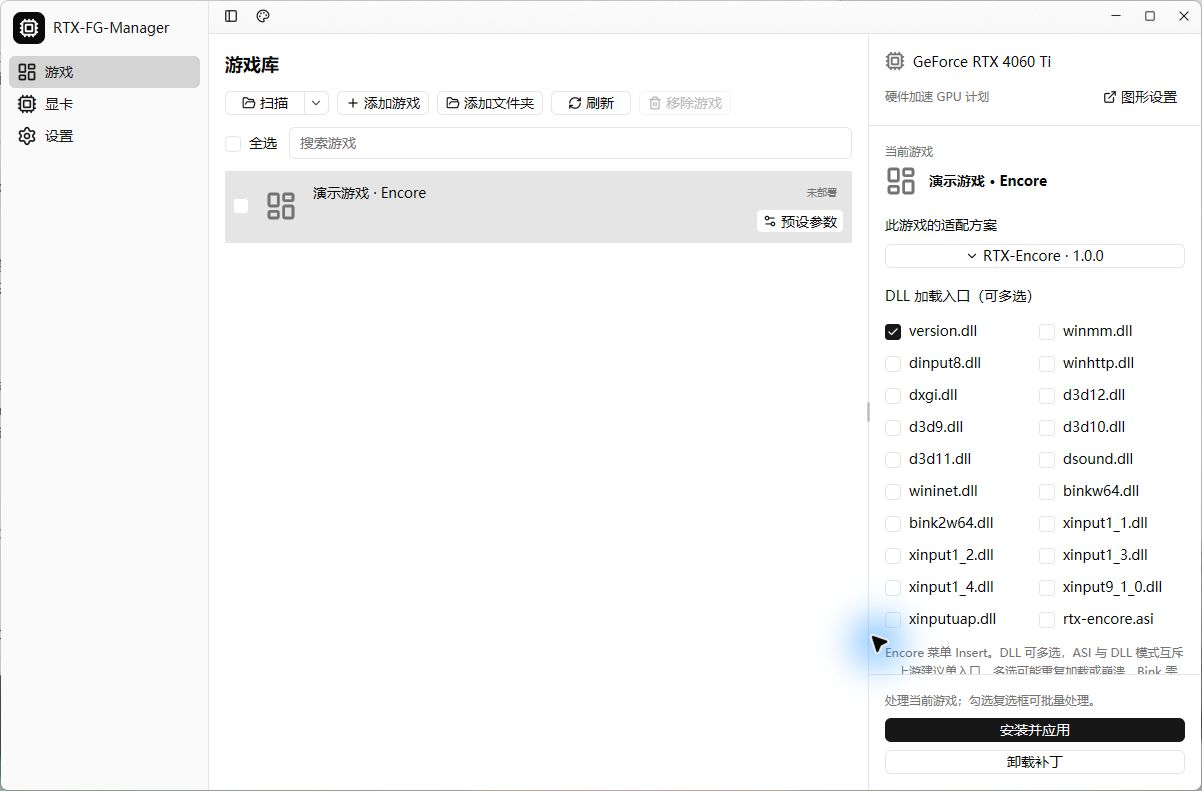
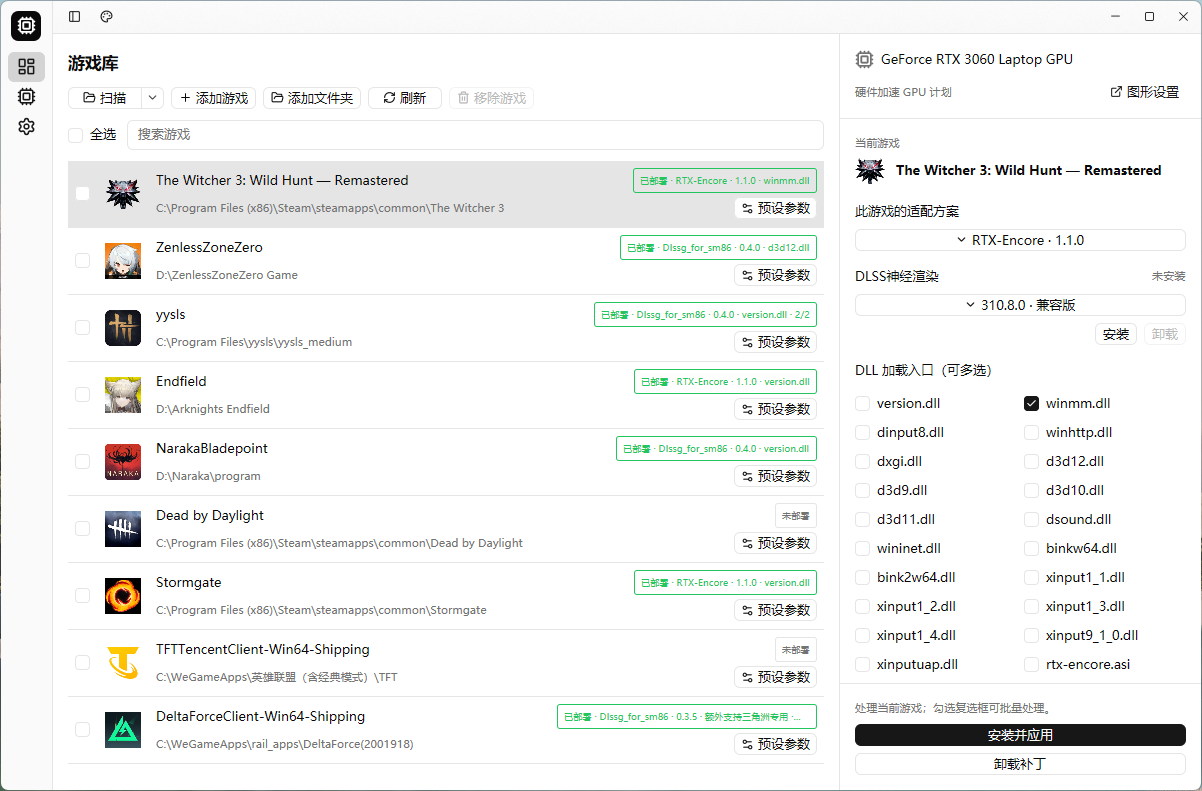
Release 4.3.2: Encore stable, refined workspace and bilingual GPU guidance

diff --git a/tools/gitcode_publish.py b/tools/gitcode_publish.py
@@ -220,6 +220,25 @@ def mirror_assets(folder, repo, tag, allow_exe=False):
         upload(repo, tag, path, allow_exe)
 
 
+def complete_pending_bundle_index(root, review, entries, final):
+    """Validate a split metadata commit against its unchanged, completed tip.
+
+    Only supply a missing immutable index, never replace an existing blob.
+    The normal metadata verifier still checks bytes, digest and remote receipts.
+    """
+    catalog = 'cloud/bundles/catalog.json'
+    if catalog not in entries or entries[catalog] != final.get(catalog):
+        return entries
+    raw = review.git(root, 'cat-file', 'blob', entries[catalog][2], binary=True)
+    revision = json.loads(raw).get('revision', '')
+    if not re.fullmatch(r'bundles-[0-9a-f]{20}', revision):
+        return entries
+    index = f'cloud/bundles/indexes/{revision}.json'
+    if index in entries or index not in final:
+        return entries
+    return {**entries, index: final[index]}
+
+
 def sync_source(root):
     spec = importlib.util.spec_from_file_location('review', root / '.github/scripts/mirror_gitee.py')
     review = importlib.util.module_from_spec(spec)
@@ -240,6 +259,7 @@ def sync_source(root):
             raise RuntimeError('GitCode has diverged; fast-forward required')
         seen = set()
         before = review.tree_entries(root, previous)
+        final = review.tree_entries(root, source)
         for commit in review.git(root, 'rev-list', '--reverse', previous + '..' + source).splitlines():
             entries = review.tree_entries(root, commit)
             review.validate_tree(root, entries, seen)
@@ -258,8 +278,9 @@ def sync_source(root):
             legacy = lambda e: {p:v for p,v in e.items() if p == 'cloud/catalog.json' or p.startswith('cloud/indexes/')}
             if legacy(entries) != legacy(before):
                 raise RuntimeError('Legacy catalogs must remain unchanged during migration')
-            verify_metadata_changes(root, review, before, entries)
-            before = entries
+            completed = complete_pending_bundle_index(root, review, entries, final)
+            verify_metadata_changes(root, review, before, completed)
+            before = completed
         review.git(root, '-c', 'credential.helper=', 'push', remote, source + ':refs/heads/main', env=env)
         refs = review.git(root, '-c', 'credential.helper=', 'ls-remote', remote, 'refs/heads/main', env=env)
         if not refs or refs.split()[0] != source:

diff --git a/tests/test_gitcode_publish.py b/tests/test_gitcode_publish.py
@@ -14,6 +14,19 @@ spec.loader.exec_module(pub)
 
 
 class PublicationTests(unittest.TestCase):
+    def test_split_bundle_index_can_only_complete_an_unchanged_final_catalog(self):
+        catalog='cloud/bundles/catalog.json';index='cloud/bundles/indexes/bundles-'+'a'*20+'.json'
+        entry=('100644','blob','catalog');blob=('100644','blob','index')
+        review=Mock();review.git.return_value=json.dumps({'revision':'bundles-'+'a'*20}).encode()
+        current={catalog:entry};final={catalog:entry,index:blob}
+        self.assertEqual(pub.complete_pending_bundle_index(Path('.'),review,current,final),final)
+        self.assertNotIn(index,current)
+        different={catalog:('100644','blob','other'),index:blob}
+        self.assertEqual(pub.complete_pending_bundle_index(Path('.'),review,current,different),current)
+        existing={**current,index:('100644','blob','original')}
+        self.assertEqual(pub.complete_pending_bundle_index(Path('.'),review,existing,final),existing)
+        self.assertEqual(pub.complete_pending_bundle_index(Path('.'),review,current,current),current)
+
     def test_exact_approved_immutable_readback_is_reused_only_for_bound_metadata(self):
         digest = 'a'*64
         url = pub.asset_url(pub.PAYLOAD_REPO, 'v430', 'patch-' + digest[:12] + '.zip')

diff --git a/README.md b/README.md
@@ -24,9 +24,9 @@
 
 > **4.3.2 · Portable Windows x64 app. Download the signed EXE from the release links below. The manager and its patches have separate release versions.**
 
-![RTX-FG-Manager 4.3.1](docs/screenshot-home.png)
+![RTX-FG-Manager 4.3.2](docs/screenshot-home.png)
 
-<p align="center"><sub>Actual 4.3.1 application capture · demonstration library with inert placeholder executables · no game or performance result</sub></p>
+<p align="center"><sub>4.3.2 user-provided screenshot · interface illustration, not a game compatibility or performance result</sub></p>
 
 ## One library. Five patch choices.
 

diff --git a/README.zh-CN.md b/README.zh-CN.md
@@ -24,9 +24,9 @@
 
 > **4.3.2 · Windows x64 便携版。从下方发行页下载签名 EXE 即可。管理器与各补丁的版本分别管理。**
 
-![RTX-FG-Manager 4.3.1](docs/screenshot-home-zh.png)
+![RTX-FG-Manager 4.3.2](docs/screenshot-home-zh.png)
 
-<p align="center"><sub>4.3.1 实际界面截图 · 演示库使用不可执行的占位 EXE · 不代表游戏运行或性能结果</sub></p>
+<p align="center"><sub>4.3.2 用户提供截图 · 仅展示界面，不代表游戏兼容性或性能验证</sub></p>
 
 ## 一个游戏库，五种补丁方案
 
